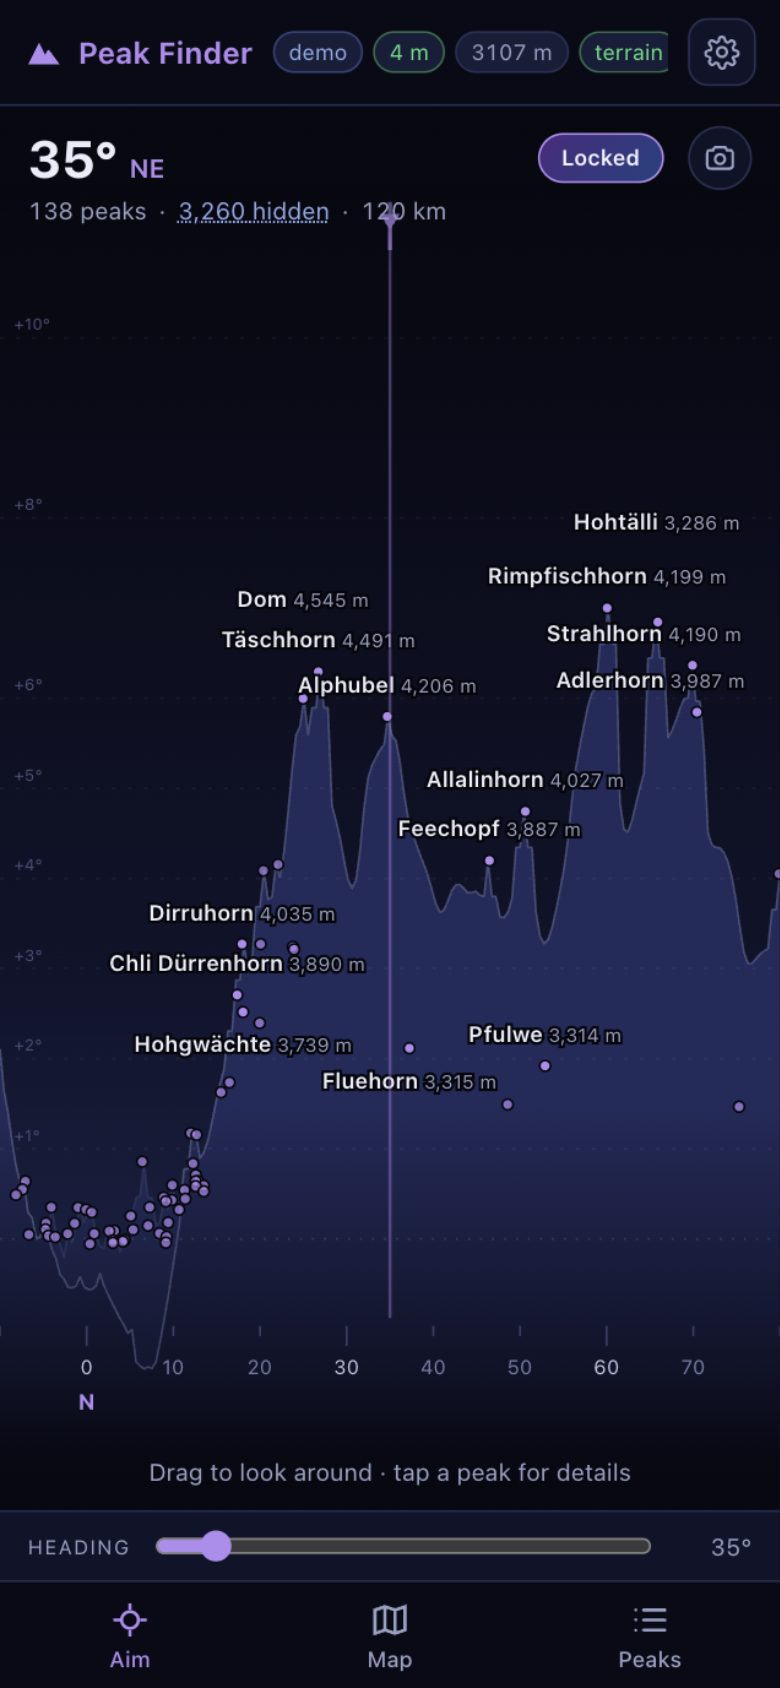
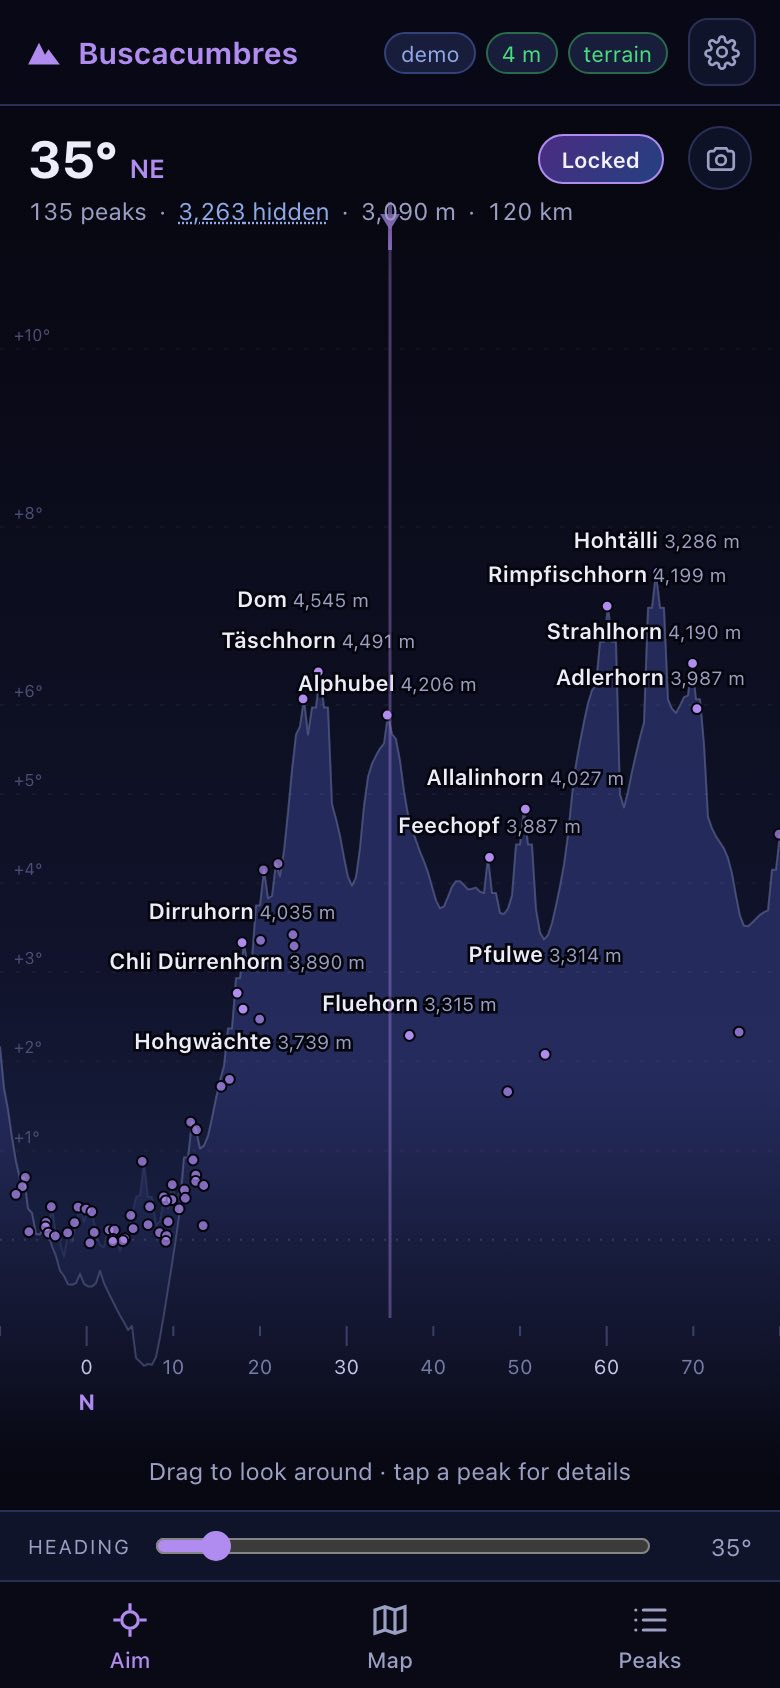
Use Buscacumbres as the app name (#1)
- Page title, iOS web-app title and PWA manifest carry the name.
- Header label and the location prompt use it too.
- Eye altitude moves into the panorama summary so the header status
  chips keep their labels on narrow phones.
- README opens with the name.

diff --git a/src/App.tsx b/src/App.tsx
@@ -145,6 +145,7 @@ export default function App() {
     onSelect: setSelectedId,
     radiusKm: settings.radiusKm,
     altitudeKnown,
+    eyeAlt,
     horizon,
     hidden,
     showHidden,
@@ -158,7 +159,7 @@ export default function App() {
           <svg viewBox="0 0 24 24" width="20" height="20" aria-hidden>
             <path d="M2.5 19.5 9 6.5l3.6 7.2 2.1-3.4 6.8 9.2H2.5Z" fill="currentColor" />
           </svg>
-          <span>Peak Finder</span>
+          <span>Buscacumbres</span>
         </div>
         <div className="chips">
           {demoMode ? <span className="chip demo">demo</span> : null}
@@ -168,7 +169,6 @@ export default function App() {
           ) : (
             <span className="chip warn">no fix</span>
           )}
-          {fix ? <span className="chip">{Math.round(eyeAlt)} m</span> : null}
           {settings.terrain ? (
             <span
               className={`chip ${
@@ -303,7 +303,7 @@ export default function App() {
                 ? live.error ?? 'Allow location access for this site and try again.'
                 : live.status === 'unsupported'
                   ? 'This browser cannot report your position.'
-                  : 'Peak Finder needs your position to work out what you are looking at.'}
+                  : 'Buscacumbres needs your position to work out what you are looking at.'}
             </p>
             <button className="primary" onClick={enableDemo}>
               Try a demo location

diff --git a/src/components/Panorama.tsx b/src/components/Panorama.tsx
@@ -19,6 +19,8 @@ export interface PanoramaProps {
   onSelect: (id: number | null) => void;
   radiusKm: number;
   altitudeKnown: boolean;
+  /** Eye altitude in metres, shown with the viewpoint summary. */
+  eyeAlt: number;
   horizon: HorizonProfile | null;
   hidden: Set<number>;
   /** Horizontal field of view in degrees. 90 for the plain panorama, the
@@ -65,6 +67,7 @@ export default function Panorama({
   onSelect,
   radiusKm,
   altitudeKnown,
+  eyeAlt,
   horizon,
   hidden,
   fov = DEFAULT_FOV,
@@ -513,6 +516,8 @@ export default function Panorama({
               </button>
             </>
           ) : null}
+          <span className="dot">·</span>
+          <span>{Math.round(eyeAlt).toLocaleString('en-US')} m</span>
           <span className="dot">·</span>
           <span>{radiusKm} km</span>
         </div>

diff --git a/index.html b/index.html
@@ -6,9 +6,10 @@
     <meta name="theme-color" content="#0a0a17" />
     <meta name="apple-mobile-web-app-capable" content="yes" />
     <meta name="apple-mobile-web-app-status-bar-style" content="black-translucent" />
+    <meta name="apple-mobile-web-app-title" content="Buscacumbres" />
     <link rel="icon" href="./favicon.svg" type="image/svg+xml" />
     <link rel="apple-touch-icon" href="./icons/apple-touch-icon.png" />
-    <title>Peak Finder</title>
+    <title>Buscacumbres</title>
   </head>
   <body>
     <div id="root"></div>

diff --git a/vite.config.ts b/vite.config.ts
@@ -12,8 +12,8 @@ export default defineConfig(({ command }) => ({
       registerType: 'autoUpdate',
       includeAssets: ['favicon.svg', 'icons/*.png'],
       manifest: {
-        name: 'Peak Finder',
-        short_name: 'Peaks',
+        name: 'Buscacumbres',
+        short_name: 'Buscacumbres',
         description: 'Identify the mountain peaks around you, offline.',
         theme_color: '#0a0a17',
         background_color: '#07080f',

diff --git a/src/settings.ts b/src/settings.ts
@@ -43,7 +43,7 @@ export const DEFAULT_SETTINGS: Settings = {
   cameraFov: 66
 };
 
-const KEY = 'peakfinder.settings.v1';
+const KEY = 'buscacumbres.settings.v1';
 
 export function loadSettings(): Settings {
   try {

diff --git a/README.md b/README.md
@@ -1,6 +1,6 @@
-# Peak Finder
+# Buscacumbres
 
-A PeakFinder-style web app that tells you which mountain peaks you are looking at.
+A web app that tells you which mountain peaks you are looking at.
 It is a static site: no backend, no accounts, no API keys, no developer account.
 Install it from the browser like an app and it keeps working offline.
 
